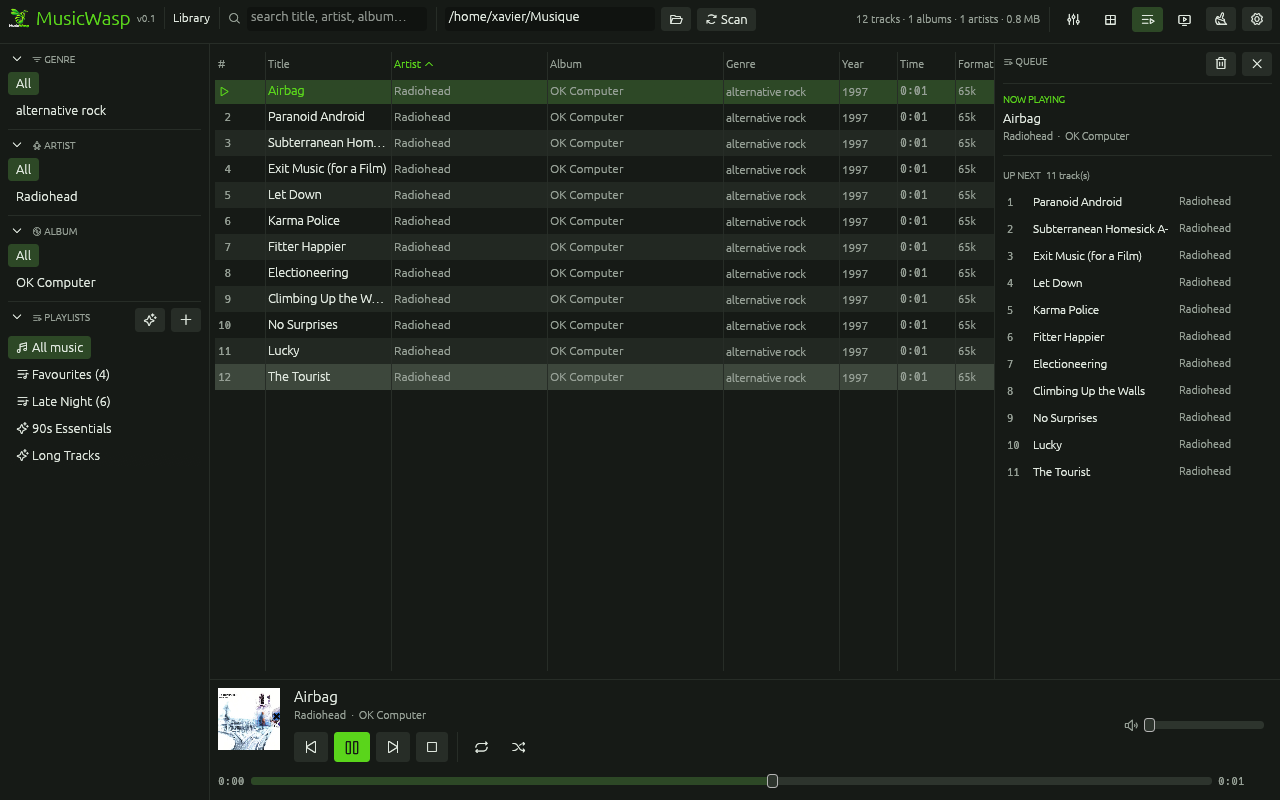
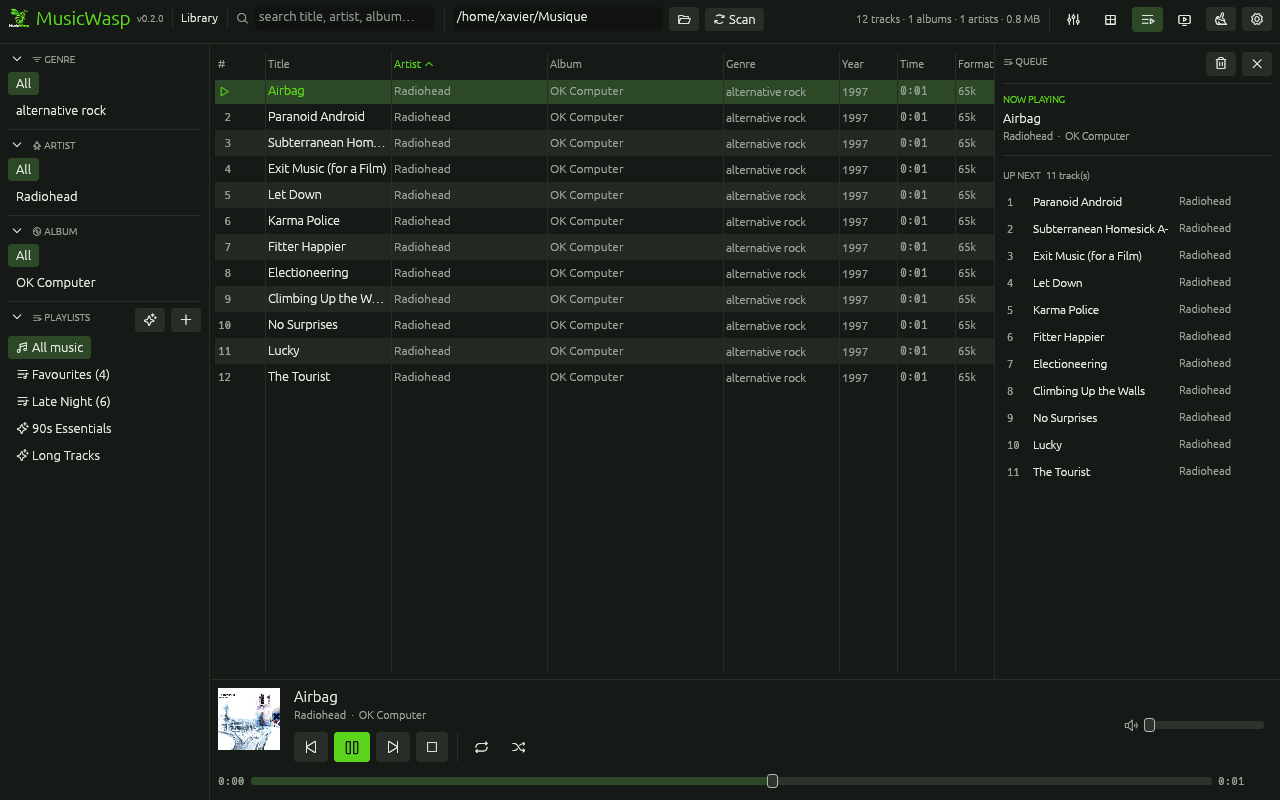
version bump and auto tag fix

diff --git a/gui/src/ui.rs b/gui/src/ui.rs
@@ -106,7 +106,11 @@ pub fn toolbar(app: &mut App, ui: &mut egui::Ui) {
                     .strong()
                     .color(th::accent()),
             );
-            ui.label(RichText::new("v0.1").size(10.0).color(th::text_dim()));
+            ui.label(
+                RichText::new(format!("v{}", env!("CARGO_PKG_VERSION")))
+                    .size(10.0)
+                    .color(th::text_dim()),
+            );
             ui.separator();
             let mut view_label = app.view_title();
             if view_label.chars().count() > 26 {
@@ -3225,51 +3229,68 @@ pub fn autotag_window(app: &mut App, ctx: &egui::Context) {
                                 }
                             }
 
-                            egui::ScrollArea::vertical()
+                            egui_extras::TableBuilder::new(ui)
                                 .id_salt("autotag_mapping")
-                                .max_height(280.0)
-                                .auto_shrink([false, false])
-                                .show(ui, |ui| {
-                                    egui::Grid::new("autotag_mapping_grid")
-                                        .num_columns(3)
-                                        .spacing([12.0, 6.0])
-                                        .striped(true)
-                                        .show(ui, |ui| {
-                                            ui.label(
-                                                RichText::new("File")
-                                                    .size(10.0)
-                                                    .strong()
-                                                    .color(th::text_dim()),
-                                            );
-                                            ui.label(
-                                                RichText::new("Release track")
-                                                    .size(10.0)
-                                                    .strong()
-                                                    .color(th::text_dim()),
-                                            );
-                                            ui.label(
-                                                RichText::new("Changes")
-                                                    .size(10.0)
-                                                    .strong()
-                                                    .color(th::text_dim()),
-                                            );
-                                            ui.end_row();
-
-                                            for mapping in &mut state.mappings {
-                                                let file_label = if mapping.track.title.is_empty()
-                                                {
-                                                    PathBuf::from(&mapping.track.path)
-                                                        .file_name()
-                                                        .map(|name| name.to_string_lossy().to_string())
-                                                        .unwrap_or_else(|| mapping.track.path.clone())
-                                                } else {
-                                                    format!(
-                                                        "{:02}. {}  -  {}",
-                                                        mapping.track.track_no.unwrap_or(0),
-                                                        mapping.track.title,
-                                                        mapping.track.artist
-                                                    )
-                                                };
+                                .striped(true)
+                                .resizable(false)
+                                .max_scroll_height(280.0)
+                                .column(
+                                    Column::initial(360.0).at_least(180.0).clip(true),
+                                )
+                                .column(
+                                    Column::initial(300.0).at_least(220.0).clip(true),
+                                )
+                                .column(
+                                    Column::remainder().at_least(180.0).clip(true),
+                                )
+                                .header(20.0, |mut header| {
+                                    header.col(|ui| {
+                                        ui.label(
+                                            RichText::new("File")
+                                                .size(10.0)
+                                                .strong()
+                                                .color(th::text_dim()),
+                                        );
+                                    });
+                                    header.col(|ui| {
+                                        ui.label(
+                                            RichText::new("Release track")
+                                                .size(10.0)
+                                                .strong()
+                                                .color(th::text_dim()),
+                                        );
+                                    });
+                                    header.col(|ui| {
+                                        ui.label(
+                                            RichText::new("Changes")
+                                                .size(10.0)
+                                                .strong()
+                                                .color(th::text_dim()),
+                                        );
+                                    });
+                                })
+                                .body(|mut body| {
+                                    for mapping in &mut state.mappings {
+                                        body.row(24.0, |mut row| {
+                                            row.col(|ui| {
+                                                let file_label =
+                                                    if mapping.track.title.is_empty() {
+                                                        PathBuf::from(&mapping.track.path)
+                                                            .file_name()
+                                                            .map(|name| {
+                                                                name.to_string_lossy().to_string()
+                                                            })
+                                                            .unwrap_or_else(|| {
+                                                                mapping.track.path.clone()
+                                                            })
+                                                    } else {
+                                                        format!(
+                                                            "{:02}. {}  -  {}",
+                                                            mapping.track.track_no.unwrap_or(0),
+                                                            mapping.track.title,
+                                                            mapping.track.artist
+                                                        )
+                                                    };
                                                 ui.add(
                                                     egui::Label::new(
                                                         RichText::new(file_label)
@@ -3279,23 +3300,33 @@ pub fn autotag_window(app: &mut App, ctx: &egui::Context) {
                                                     .truncate(),
                                                 )
                                                 .on_hover_text(&mapping.track.path);
+                                            });
 
+                                            row.col(|ui| {
                                                 let selected = mapping
                                                     .release_index
-                                                    .and_then(|index| release.tracks.get(index))
+                                                    .and_then(|index| {
+                                                        release.tracks.get(index)
+                                                    })
                                                     .map(|track| {
                                                         format!(
                                                             "{}.{:02}  {}",
-                                                            track.disc, track.number, track.title
+                                                            track.disc,
+                                                            track.number,
+                                                            track.title
                                                         )
                                                     })
-                                                    .unwrap_or_else(|| "— skip —".to_string());
+                                                    .unwrap_or_else(|| {
+                                                        "— skip —".to_string()
+                                                    });
                                                 egui::ComboBox::from_id_salt((
                                                     "autotag_map",
                                                     mapping.track.id,
                                                 ))
-                                                .selected_text(RichText::new(selected).size(11.0))
-                                                .width(240.0)
+                                                .selected_text(
+                                                    RichText::new(selected).size(11.0),
+                                                )
+                                                .width((ui.available_width() - 4.0).max(80.0))
                                                 .show_ui(ui, |ui| {
                                                     ui.selectable_value(
                                                         &mut mapping.release_index,
@@ -3318,7 +3349,9 @@ pub fn autotag_window(app: &mut App, ctx: &egui::Context) {
                                                         );
                                                     }
                                                 });
+                                            });
 
+                                            row.col(|ui| {
                                                 let changes = mapping.changes(&release);
                                                 let summary = if changes.is_empty() {
                                                     "no changes".to_string()
@@ -3333,13 +3366,13 @@ pub fn autotag_window(app: &mut App, ctx: &egui::Context) {
                                                 };
                                                 ui.add(
                                                     egui::Label::new(
-                                                        RichText::new(summary).size(10.5).color(
-                                                            if changes.is_empty() {
+                                                        RichText::new(summary)
+                                                            .size(10.5)
+                                                            .color(if changes.is_empty() {
                                                                 th::text_dim()
                                                             } else {
                                                                 th::accent()
-                                                            },
-                                                        ),
+                                                            }),
                                                     )
                                                     .truncate(),
                                                 )
@@ -3352,9 +3385,9 @@ pub fn autotag_window(app: &mut App, ctx: &egui::Context) {
                                                         .collect::<Vec<_>>()
                                                         .join("\n"),
                                                 );
-                                                ui.end_row();
-                                            }
+                                            });
                                         });
+                                    }
                                 });
 
                             let skipped = state
